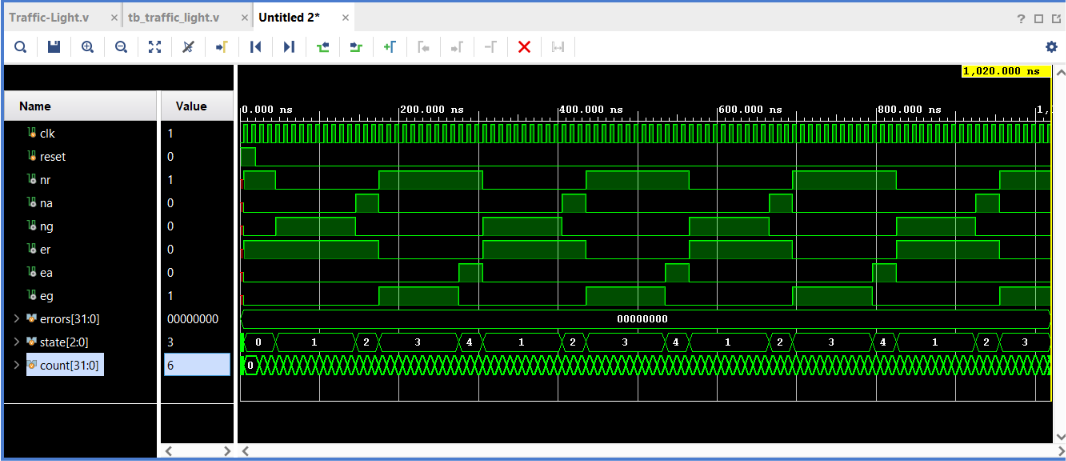
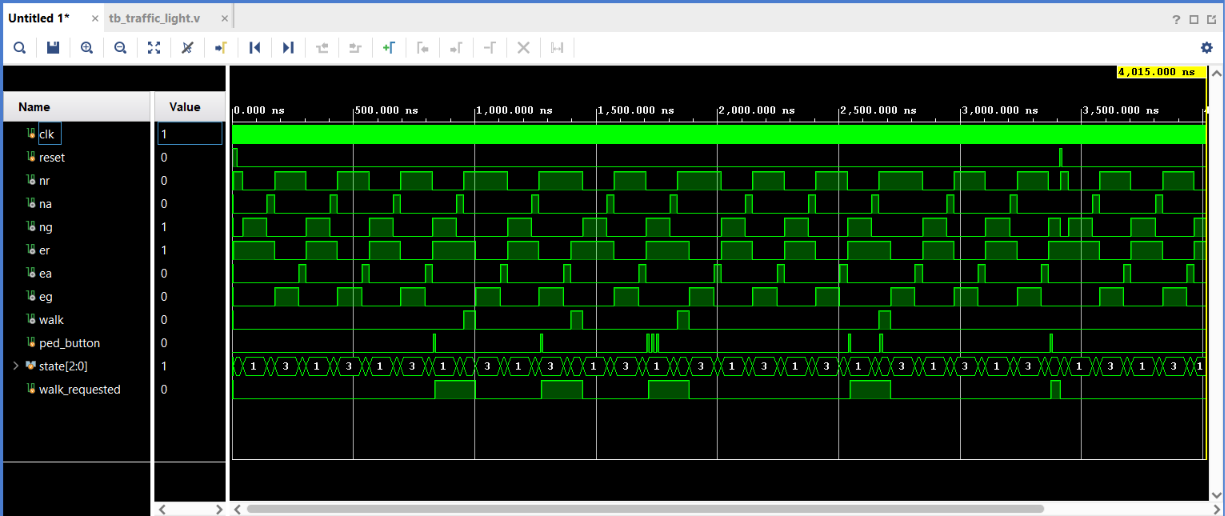
Update README for pedestrian crossing, tests and CI

diff --git a/README.md b/README.md
@@ -1,52 +1,82 @@
 # Traffic Light Controller (Verilog / FPGA)
 
-A traffic light controller for a two-road junction (North and East), designed in
-Verilog as a finite state machine (FSM) and verified with a self-checking testbench.
+![Tests](https://github.com/WaterCompass/Traffic-Light-fpga/actions/workflows/tests.yml/badge.svg)
+
+A traffic light controller for a two-road junction (North and East) with a pedestrian
+crossing, designed in Verilog as a finite state machine (FSM) and verified with a
+self-checking testbench. Tests run automatically on every push using GitHub Actions.
 
 ## What it does
-- 5 states: ALL_RED (safe reset state), NORTH_GREEN, NORTH_AMBER, EAST_GREEN, EAST_AMBER
-- Timing is set with parameters (GREEN_TICKS, AMBER_TICKS), so it can run fast in
-  simulation or at real speeds on an FPGA board
-- Resets to all-red, and any unexpected state falls back to all-red
+- 6 states: ALL_RED (safe reset), NORTH_GREEN, NORTH_AMBER, EAST_GREEN, EAST_AMBER, WALK
+- **Pedestrian button:** a press is remembered and served at the next safe point
+  (straight after an amber), so a green is never cut short
+- During WALK both roads are red; afterwards the junction carries on where it left off
+- Presses during WALK are ignored; reset returns to all-red and clears any request
+- Timing is set with parameters, so it runs fast in simulation or at real speed on a board
 
 ## How it's tested
-The testbench checks on **every clock tick** that:
-1. North and East are **never green at the same time**
-2. Each road always shows **exactly one light**
+**4 safety rules, checked on every clock tick:**
+1. North and East are never green at the same time
+2. Each road always shows exactly one light
+3. The WALK light is only on when both roads are red
+4. WALK only ever starts straight after an amber
 
-To prove the testbench works, I injected a bug (both directions green during
-EAST_GREEN). The testbench caught it: 36 errors, TEST FAILED. The error appears one
-clock tick after the bad state starts, because the checker samples on the same clock
-edge where the state changes.
+**6 test scenarios:**
+| Test | Scenario | Expected |
+|---|---|---|
+| 1 | No button | WALK never happens |
+| 2 | Button during north green | Green not cut short → WALK → east green |
+| 3 | Button during east green | WALK → north green |
+| 4 | Button pressed 3 times | Only one WALK |
+| 5 | Button pressed during WALK | Ignored |
+| 6 | Reset mid-green after a press | ALL_RED, request forgotten |
 
-**Result:** TEST PASSED, no safety errors.
+**Proving the checks work:** I injected bugs on purpose and confirmed the testbench
+caught them. When I made east stay green during WALK, rules 1 and 2 did *not* catch it,
+but the new rule 3 did (20 errors). This is why each new feature got its own safety rule.
+
+**Two simulators, same result:** the tests run in Vivado (xsim) locally and in Icarus
+Verilog on GitHub Actions. Both finish at exactly 4015 ns with all tests passing, which
+shows the design doesn't rely on simulator-specific behaviour.
+
+## Running the tests
+    python run_tests.py
+The script automatically uses Icarus Verilog if installed, otherwise Vivado's
+command-line simulator. GitHub Actions runs the same script on every push.
 
 ## Waveform
-`state` steps through 0 → 1 → 2 → 3 → 4 → 1… (ALL_RED, then the repeating cycle),
-and `errors` stays at 0 for the whole run.
+The full test run. Each `ped_button` blip is latched in `walk_requested`, and `walk`
+turns on after the next amber. You can see the triple press (only one WALK), the press
+during a WALK (ignored), and the reset at the end clearing a pending request (no WALK).
 
-![Full simulation run](Waveform.png)
+![Simulation waveform](Waveform.png)
+
+## Design decisions
+- **Button presses are latched** in `walk_requested`, so a quick press isn't missed.
+- **A press on the exact tick an amber ends** is served one cycle later rather than
+  immediately: slightly slower, but never unsafe.
+- **The testbench drives inputs on the falling clock edge**, so they're stable when
+  the design samples them on the rising edge.
 
 ## Bugs I fixed
-- **Times printed 1000× too big:** the testbench showed "5000 ns" instead of "5 ns",
-  because `%t` prints in picoseconds by default. Fixed with `$timeformat(-9, 0, " ns", 8)`.
-- **Test result never printed:** Vivado's default run time (1000 ns) stopped before the
-  testbench's final check at 1020 ns. Fixed by using Run All so the test runs to `$finish`.
-- **Syntax error from the file name:** Vivado auto-generated `module Traffic-Light`,
-  but Verilog names can't contain hyphens (`-` is read as minus). Renamed the module
-  to `traffic_light`.
+- **Times printed 1000× too big:** `%t` prints in picoseconds by default. Fixed with
+  `$timeformat(-9, 0, " ns", 8)`.
+- **Test result never printed:** Vivado's default run time stopped before the final
+  check. Fixed by using Run All so the test runs to `$finish`.
+- **Syntax error from the file name:** Vivado generated `module Traffic-Light`, but
+  Verilog names can't contain hyphens. Renamed the module to `traffic_light`.
 
 ## Project structure
 - `rtl/Traffic-Light.v`: the design (FSM)
-- `tb/tb_traffic_light.v`: the self-checking testbench
+- `tb/tb_traffic_light.v`: self-checking testbench (4 rules, 6 tests)
+- `run_tests.py`: runs the tests (Icarus or Vivado) and prints PASS/FAIL
+- `.github/workflows/tests.yml`: runs the tests automatically on every push
 
 ## Tools
-Verilog, Vivado 2023.2 (behavioural simulation)
+Verilog, Vivado 2023.2, Icarus Verilog, Python, GitHub Actions
 
-## Next steps (in progress)
-- Pedestrian button with a WALK state
-- More edge-case tests (reset mid-cycle, button at awkward moments)
-- Automated test script + CI with Icarus Verilog
+## Next steps
+- Same design on an Arduino (C), to compare software vs hardware approaches
 
 ## License
 © 2026 Ayub (WaterCompass). All rights reserved.
